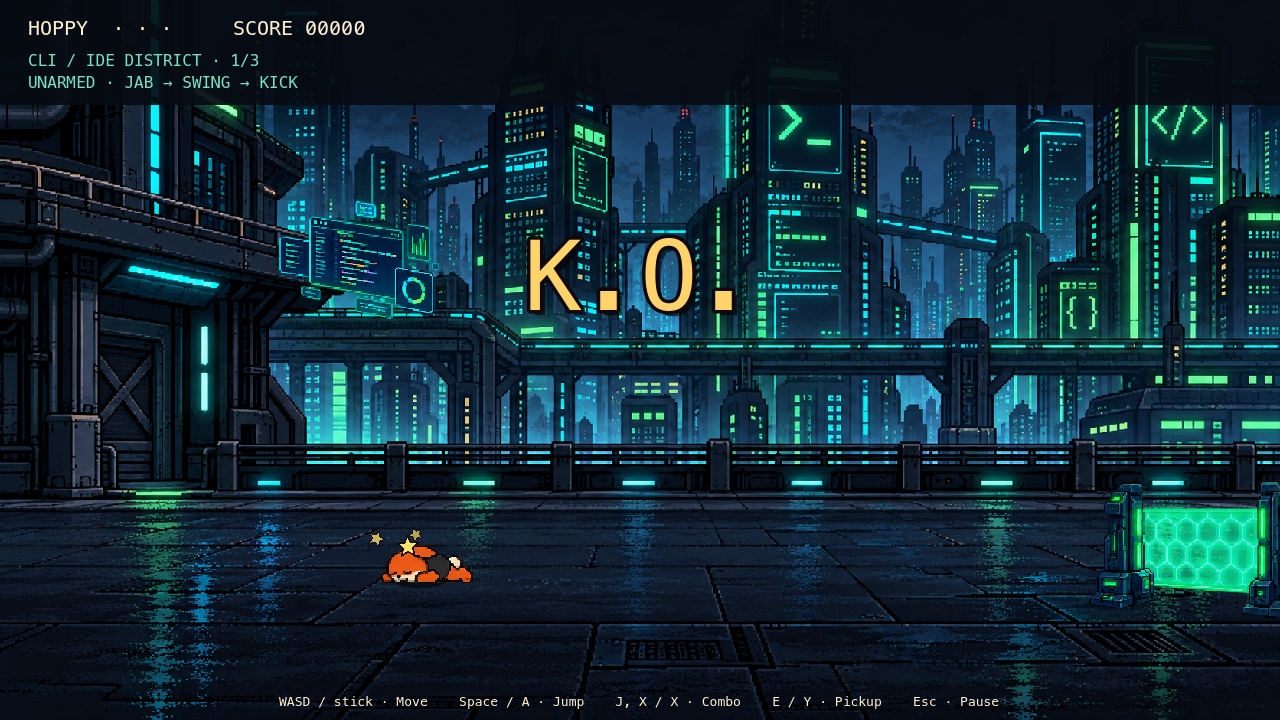
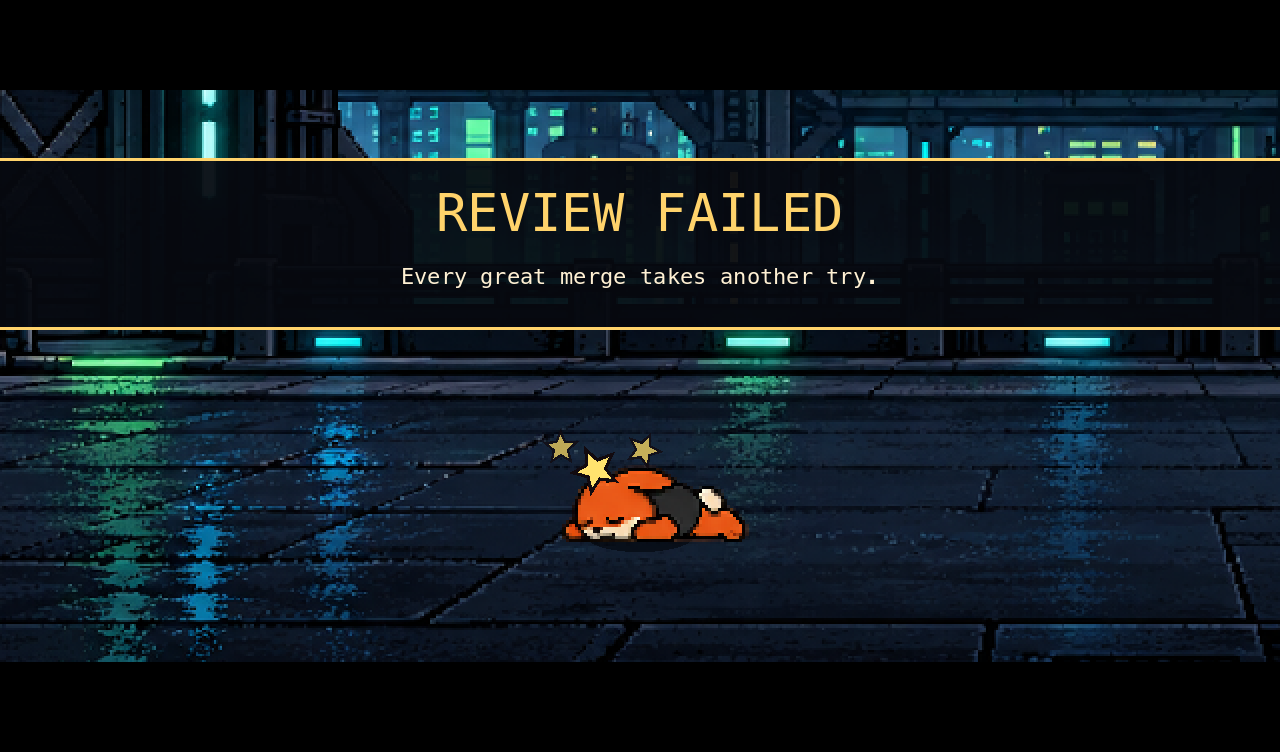
docs(code-city): previews for the district bosses, celebration and KO cinematic
Add the boss, hop, run-off and celebration stills, and replace the
knockout preview with the cinematic's REVIEW FAILED card. Describe the
real boss sheets, the code_city_celebration suite and the new knockout
timing. Record the October 10 validation of the integrated brawl branch.

diff --git a/docs/code-city-brawl.md b/docs/code-city-brawl.md
@@ -51,7 +51,11 @@ There are three gated encounters per district. Clear every living combatant, inc
 
 | Opening story scene | Knockout on the last HP |
 |---|---|
-| ![The first story scene of the introduction](previews/code-city/intro.png) | ![Hoppy knocked out, with dizzy stars and the K.O. callout](previews/code-city/knockout.png) |
+| ![The first story scene of the introduction](previews/code-city/intro.png) | ![Hoppy knocked out under letterbox bars and the REVIEW FAILED card](previews/code-city/knockout.png) |
+
+| District boss down | Running off to the next district | Celebration |
+|---|---|---|
+| ![Hoppy cheering under the DISTRICT BOSS DOWN banner as Stack Overflow fades](previews/code-city/district_boss_down.png) | ![Hoppy running off to the right under the DISTRICT SECURED banner](previews/code-city/district_boss_runoff.png) | ![Hoppy cheering by the merge button under confetti and the MERGE SUCCESSFUL banner](previews/code-city/celebration.png) |
 
 | Minimap | Victory epilogue | Victory screen |
 |---|---|---|
@@ -100,7 +104,11 @@ The first two districts end on a district boss instead of a gate. It is called i
 - **Dash.** The boss lines up on Hoppy's lane behind a row of warning markers and charges across the room.
 - **Enrage.** Below half HP its wind-ups are 20% shorter, and it calls in two adds, once.
 
-Until the bosses' own sprite sheets are in the pack, each draws a stand-in at about twice that enemy's size: the Linter Enforcer for Stack Overflow and the Force Push Bandit for Zero-Day.
+Each boss has its own 16-frame sheet in the Code City pack (`stack_overflow`, `zero_day`), drawn at the enemies' scale so it stands about 1.6 times as tall as a Linter Enforcer. A boss whose sheet is missing from the pack manifest draws a stand-in at about twice that enemy's size instead: the Linter Enforcer for Stack Overflow and the Force Push Bandit for Zero-Day.
+
+| Stack Overflow winding up a slam | Zero-Day winding up a slam |
+|---|---|
+| ![Stack Overflow, a tower of call-stack frames, telegraphing a slam onto Hoppy's spot](previews/code-city/mini_boss_1.png) | ![Zero-Day, a cloaked exploit knight, telegraphing a slam onto Hoppy's spot](previews/code-city/mini_boss_2.png) |
 
 ## The Grand Merge Conflict
 
@@ -141,6 +149,7 @@ godot --headless --path hoppys-adventure-arcade --import
 godot --headless --path hoppys-adventure-arcade --script res://tests/code_city_assets.gd
 godot --headless --path hoppys-adventure-arcade --script res://tests/code_city_logic.gd
 godot --headless --path hoppys-adventure-arcade --script res://tests/code_city_mini_boss.gd
+godot --headless --path hoppys-adventure-arcade --script res://tests/code_city_celebration.gd
 godot --headless --path hoppys-adventure-arcade --script res://tests/code_city_motion.gd
 godot --headless --path hoppys-adventure-arcade --script res://tests/code_city_smoke.gd
 godot --headless --path hoppys-adventure-arcade --script res://tests/stage_flow.gd
@@ -152,15 +161,25 @@ godot --headless --path hoppys-adventure-arcade --script res://tests/beatemup_kn
 godot --path hoppys-adventure-arcade --always-on-top --script res://tests/code_city_smoke.gd
 godot --path hoppys-adventure-arcade --always-on-top --script res://tests/code_city_motion.gd
 godot --path hoppys-adventure-arcade --always-on-top --script res://tests/beatemup_knockout.gd
+godot --path hoppys-adventure-arcade --always-on-top --script res://tests/capture_code_city_bosses.gd
 ```
 
 The logic suite covers combo buffering, turning between swings and on buffered steps, attack deduplication and depth, weapon durability, armor, shields/statuses, hammer target count, soldier splits, zombie revival, gate ownership, pickup rules, hazard warnings, jumping, pause, boss thresholds, Force Merge, retry cleanup and all four music mappings. The smoke suite injects keyboard/gamepad events, traverses all nine encounters with no confirm input between stages, beats both district bosses, verifies bounded pools and one completion, and returns to the menu. `code_city_mini_boss.gd` checks that districts 1 and 2 call in their district boss and district 3 keeps the Grand Merge Conflict; the boss's stagger, enrage and adds; and the hands-free defeat: victory hop, run-off and next district. It also checks pause during the hop and that a retry clears the boss. `stage_flow.gd` checks the director's phase order and durations, a single stage rebuild on black, pause during every phase, the music envelope and boss-music dip, retry, cancellation on game over and return-to-menu, and the 0.5-second menu guard. `hoppy_armed_assets.gd` requires all eleven armed sheets in both modes and checks their frames, clips, pivots, anchors, body height and carry icons. `beatemup_story.gd` checks, for both modes, that each story scene's caption types and its pan moves on the clock, the dips and bars, Next / Skip / the one-press card skip, the pause freeze, and the hands-free hand-off into the first stage. `beatemup_knockout.gd` covers the knockout in both modes:
 - Hoppy is knocked out by direct and live hits (bullets, ground warnings, enemy and boss contact).
-- Phase timing: the menu appears only at about 2.2 seconds.
+- Phase timing: the slow-motion throw, the camera push and letterbox bars, the card, and the menu after about 3.5 seconds (never more than 4).
+- The HUD, minimap and control hints are hidden through the cinematic and restored after it, and the camera is restored on completion or cancellation.
 - The pause freeze, and that a double knockout is ignored.
 - Retry, and the menu's input guard.
 
-Rendered runs save previews in `docs/previews/code-city/`. `--always-on-top` keeps macOS from skipping frames while the window is covered, which otherwise stalls the captures.
+`code_city_celebration.gd` checks the celebration's assets and plays it on a stub owner:
+- the victory clip and the click-free jingle and loop;
+- `done` called once at 5.2 seconds;
+- the boss-track duck, then the jingle;
+- the switch to the looping victory track, which keeps playing afterwards;
+- the camera push and its restore;
+- cancellation at each stage.
+
+Rendered runs save previews in `docs/previews/code-city/`. `capture_code_city_bosses.gd` steps the game into each district boss and the finale and writes the boss, hop, run-off and celebration stills. The rendered knockout run saves its frames under `/tmp/s3-captures/`; `knockout.png` is its REVIEW FAILED card. `--always-on-top` keeps macOS from skipping frames while the window is covered, which otherwise stalls the captures.
 
 The traversal bot uses invulnerability to establish reachability; it does **not** validate difficulty balance. Physical controllers, exported builds and mobile/web targets have not been tested. This v1 uses three finite panoramic rooms per district with repeated scenery and curated enemy waves; prop bodies do not obstruct movement. Boss attacks use ground-plane hit geometry, not pixel-perfect sprite collision. These are explicit starting points for the next gameplay-tuning pass.
 
@@ -179,3 +198,12 @@ Phase 3 exposure polish: logic and motion regression tests passed, including bot
 ### Hands-free stage flow and armed sheets — October 8, 2026
 
 Godot 4.7.1: the project imported headless and all 26 headless suites listed in CI passed, including `stage_flow` and `hoppy_armed_assets`. The rendered smoke run completed all nine encounters with no confirm input between stages. The rendered motion run's `weapons_25/44/70` captures were compared against the armed sheet cells for all six weapons, and the stage fade and banner captures were inspected. Ruff and `git diff --check` passed. As before, the traversal bot checks reachability, not difficulty.
+
+### Brawl polish: district bosses, celebration and knockout cinematic — October 10, 2026
+
+Godot 4.7.1, on the integrated brawl branch with the armed-locomotion and mini-boss sheets and the celebration and knockout work merged in. These suites passed headless:
+- the Code City suites: `code_city_logic`, `code_city_mini_boss` (on the real boss sheets), `code_city_celebration`, `code_city_motion`, `code_city_assets` and `code_city_smoke`;
+- the shared suites: `stage_flow`, `beatemup_story`, `beatemup_knockout`, `beatemup_minimap` and `hoppy_armed_assets`;
+- the Heroes vs. Villains suites: logic, smoke, motion and assets.
+
+The rendered smoke run completed all nine encounters through both district bosses and the celebration. It now waits for a graphical start to settle before changing scenes; without that wait the scene change failed. The rendered knockout run passed in both modes. Its frames and the `capture_code_city_bosses.gd` stills were inspected at 1280×720.
